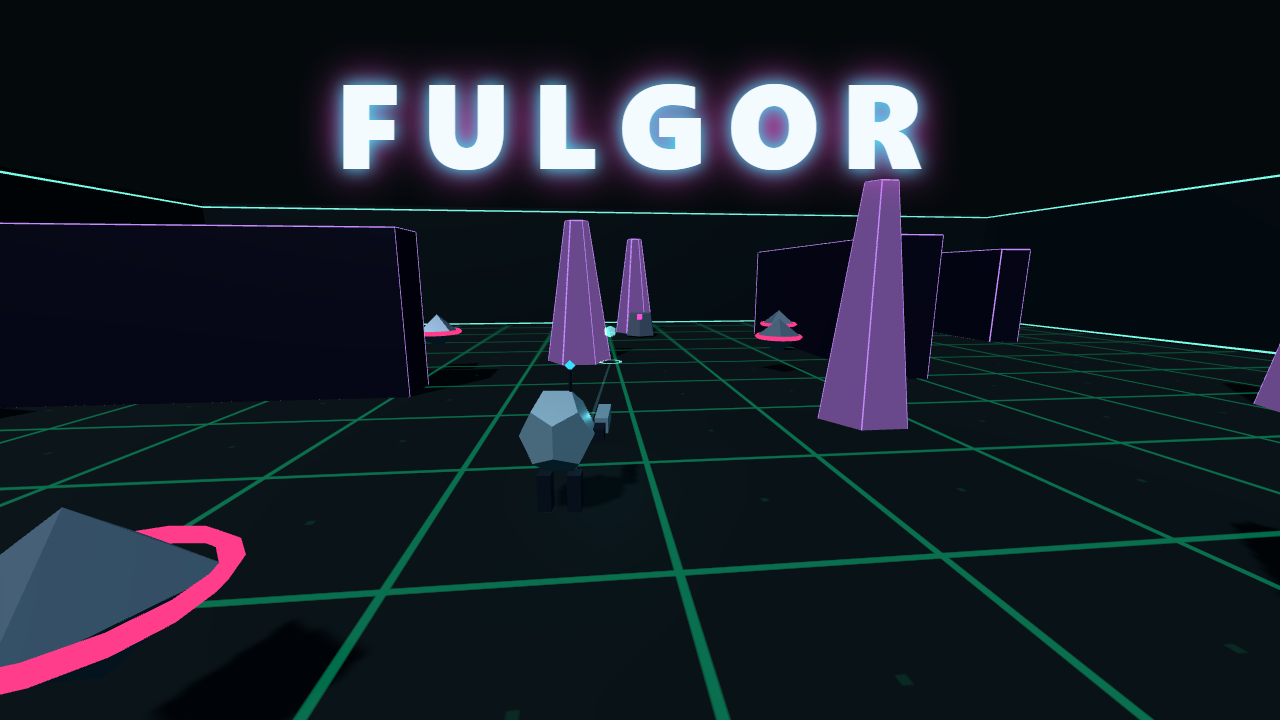
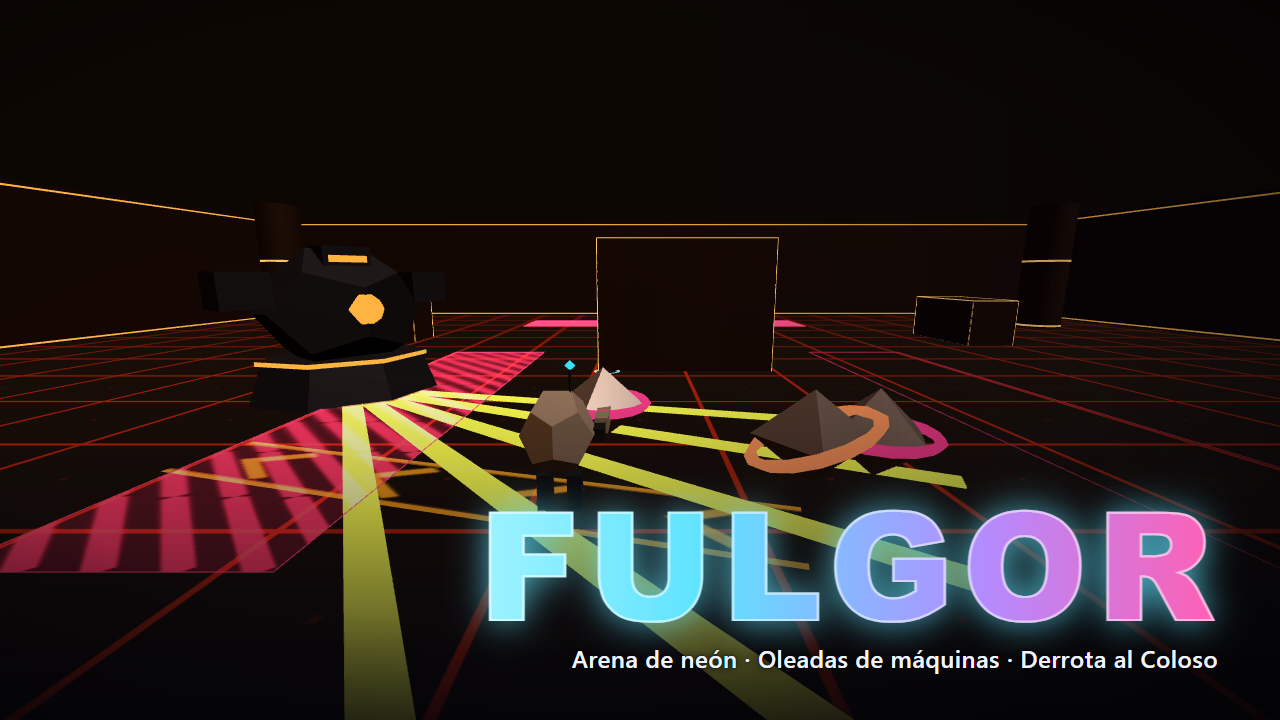
feat: portadas - actualiza las portadas de Zumbido, Fulgor, Cerrojo y Dead Shift 3D

diff --git a/docs/LICENSES.md b/docs/LICENSES.md
@@ -21,11 +21,11 @@ Inventario de licencias del sitio. La página `/creditos/` muestra la misma info
 | Portada de Dead Shift (`public/games/dead-shift/cover.png`) | Portada del propio juego, aportada por el titular. Todos los derechos reservados. Titular: Danny Sivinta |
 | Portada de Apagón (`public/games/apagon/cover.png`) | Portada del propio juego (`https://dannnyusssssss.github.io/Apagon/cover.png`), del titular. Todos los derechos reservados. Titular: Danny Sivinta |
 | Portada de Trazada (`public/games/trazada/cover.png`) | Portada del propio juego (`https://dannnyusssssss.github.io/Trazada/cover.png`), del titular. Todos los derechos reservados. Titular: Danny Sivinta |
-| Portada de Fulgor (`public/games/fulgor/cover.png`) | Portada del propio juego (`https://dannnyusssssss.github.io/Fulgor/cover.png`), del titular. Todos los derechos reservados. Titular: Danny Sivinta |
-| Portada de Zumbido (`public/games/zumbido/cover.png`) | Portada del propio juego (`https://dannnyusssssss.github.io/Zumbido/cover.png`), del titular: una imagen del propio juego. Todos los derechos reservados. Titular: Danny Sivinta |
+| Portada de Fulgor (`public/games/fulgor/cover.png`) | Portada del propio juego, aportada por el titular. Todos los derechos reservados. Titular: Danny Sivinta |
+| Portada de Zumbido (`public/games/zumbido/cover.png`) | Portada del propio juego, aportada por el titular. Todos los derechos reservados. Titular: Danny Sivinta |
 | Portada de Ceniza y Luz (`public/games/ceniza-y-luz/cover.png`) | Portada del propio juego (`https://dannnyusssssss.github.io/Ceniza-y-Luz/cover.png`), del titular. Todos los derechos reservados. Titular: Danny Sivinta |
-| Portada de Cerrojo (`public/games/cerrojo/cover.png`) | Portada del propio juego (`https://dannnyusssssss.github.io/Cerrojo/cover.png`), del titular. Todos los derechos reservados. Titular: Danny Sivinta |
-| Portada de Dead Shift 3D (`public/games/dead-shift-3d/cover.png`) | Portada del propio juego (`https://dannnyusssssss.github.io/dead-shift-3D/cover.png`), del titular: una captura del propio juego. Todos los derechos reservados. Titular: Danny Sivinta |
+| Portada de Cerrojo (`public/games/cerrojo/cover.png`) | Portada del propio juego, aportada por el titular. Todos los derechos reservados. Titular: Danny Sivinta |
+| Portada de Dead Shift 3D (`public/games/dead-shift-3d/cover.png`) | Portada del propio juego, aportada por el titular. Todos los derechos reservados. Titular: Danny Sivinta |
 
 La licencia se define en una sola constante, `SITE.license` en `src/data/site.ts`. Si se elige otra (por ejemplo MIT), solo aplica a las versiones publicadas desde ese cambio.
 
